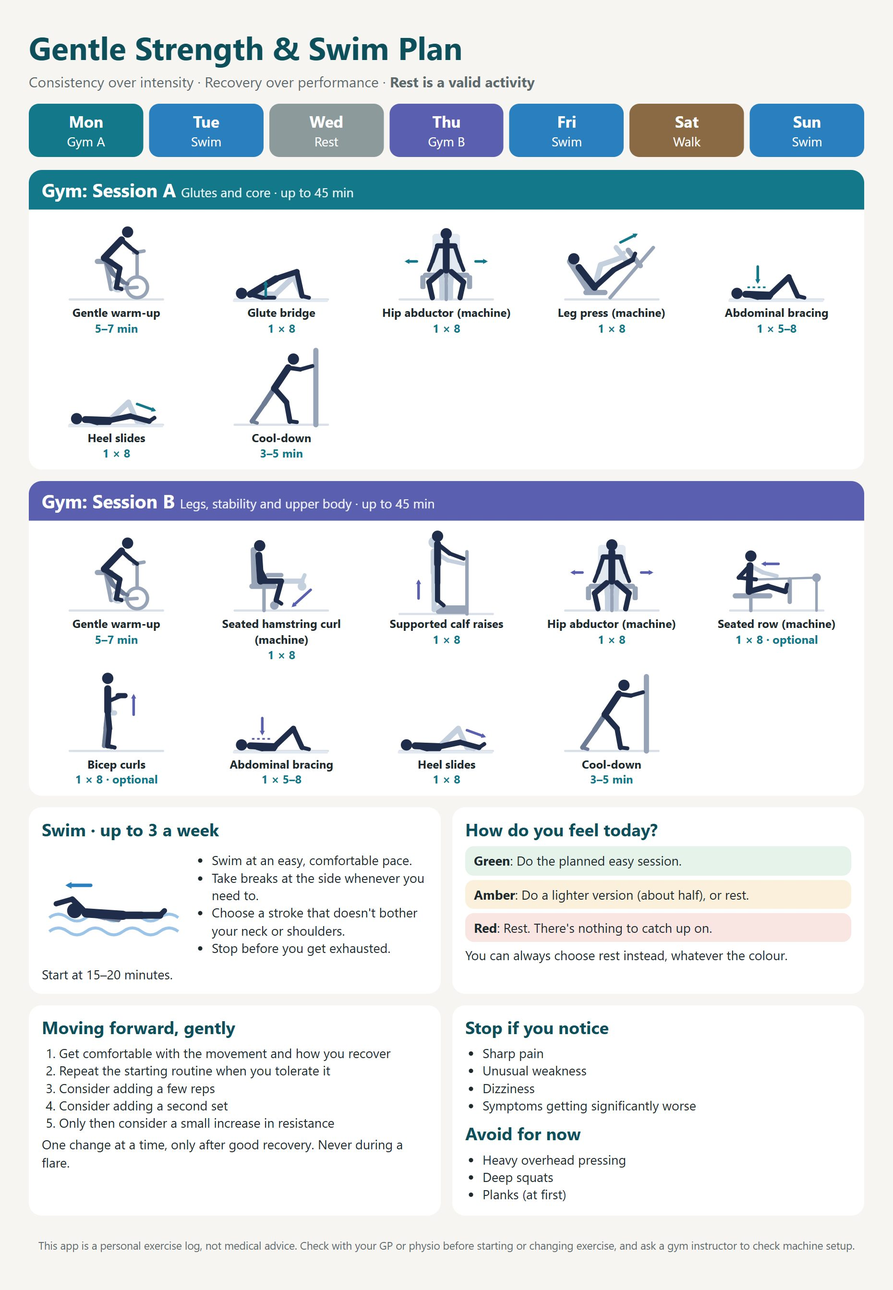
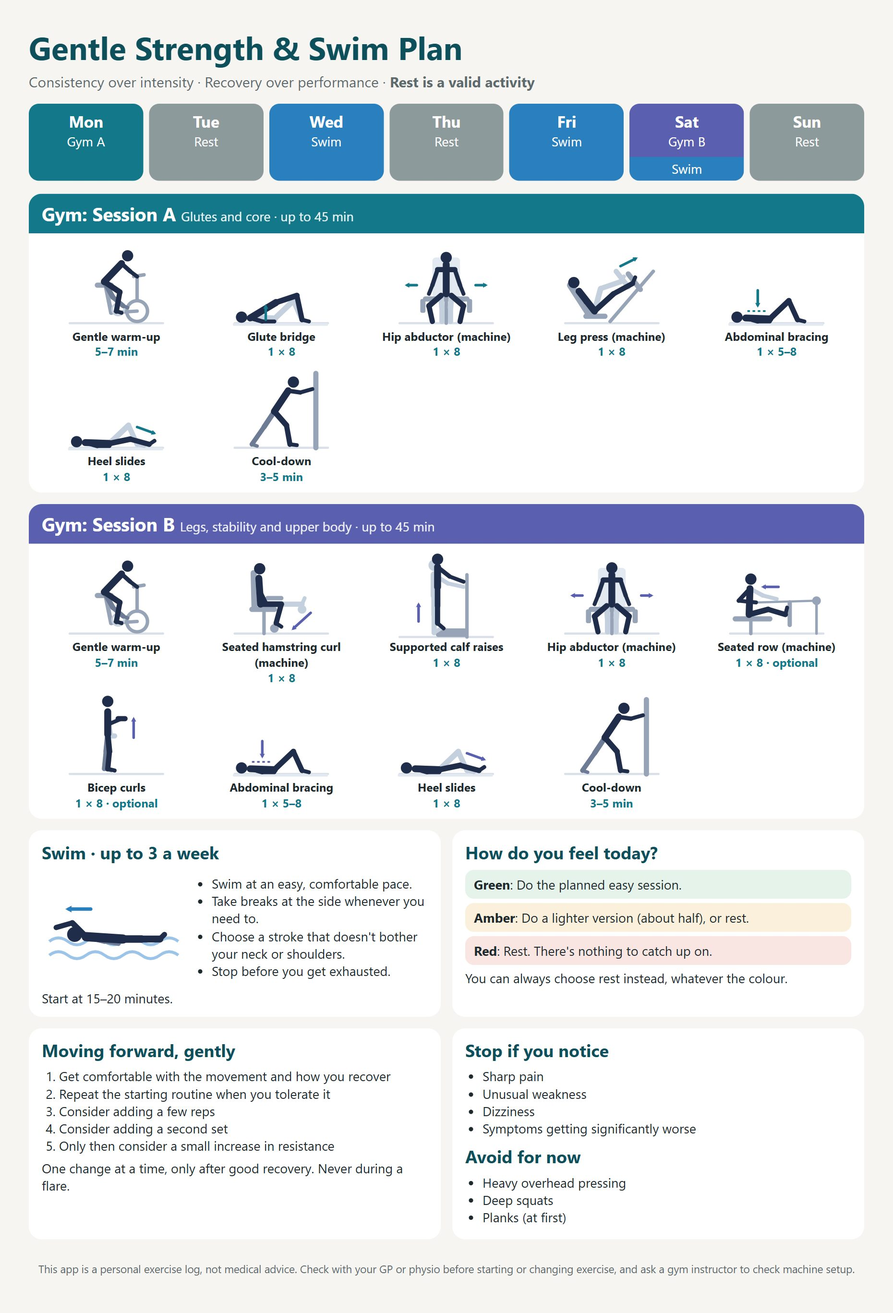
New weekly rhythm, log a session afterwards, clearer backup steps
- Week: Mon Gym A, Wed swim, Fri swim, Sat Gym B then swim; Tue, Thu, Sun rest.
  A day can now hold more than one session; the walk is no longer offered.
- "Log one I've already done": add a session for today or an earlier day
  without the before check; her usual day is the baseline for dips.
- Backup button explains Save to Files / iCloud Drive or emailing it.
- Picture guide updated; cache lgym-v4.

diff --git a/js/app.js b/js/app.js
@@ -1,17 +1,17 @@
 import * as db from "./db.js";
 import {
-  loadPlan, getPlan, position, weekDates, suggestedFor, activity, sessionItems, doseText, picto,
-  DAY_NAMES, SHORT, ICONS, colour, isoDate, parseDate, dayKeyOf,
+  loadPlan, getPlan, position, weekDates, suggestedFor, dayNote, activity, sessionItems, doseText, picto,
+  DAY_NAMES, SHORT, ICONS, colour, isoDate, parseDate, dayKeyOf, addDays,
 } from "./plan.js";
 import { renderPlan, openGuide } from "./planview.js";
 import { renderProgress, progressAction } from "./progress.js";
 import { renderHistory } from "./history.js";
 import { esc, fmt, today, toast, celebrate } from "./ui.js";
 import { unlockAudio } from "./beep.js";
-import { getDay, updateDay, suggestLevel, pendingChecks, recentCrashes, isCrash } from "./checks.js";
+import { getDay, updateDay, suggestLevel, pendingChecks, recentCrashes, isCrash, baselineOf } from "./checks.js";
 import { createSessionView, newSession, scoreChips } from "./session.js";
 import { suggestion, describe, accept, snooze, swimTarget, withLevels } from "./progression.js";
-import { createSettingsView, needsBackupReminder, backupNow, readBackup } from "./settings.js";
+import { createSettingsView, needsBackupReminder, backupNow, readBackup, BACKUP_HOW } from "./settings.js";
 
 const $screen = document.getElementById("screen");
 const $tabs = document.getElementById("tabs");
@@ -19,7 +19,7 @@ const state = { tab: "today", name: "", start: null, usual: null, flow: null, dr
 const sessionView = createSessionView({ $screen, $tabs, onExit: () => show(state.tab) });
 const settingsView = createSettingsView({ $screen, $tabs });
 const viewActive = () => sessionView.active() || settingsView.active();
-const ACTS = ["gym_a", "gym_b", "swim", "walk"];
+const ACTS = ["gym_a", "gym_b", "swim"];
 const LEVELS = ["green", "amber", "red"];
 
 const todayIso = () => isoDate(today());
@@ -96,11 +96,16 @@ function ring(week, weeks) {
 function dayStrip(now, doneDates) {
   const iso = isoDate(now);
   return `<div class="daystrip">${weekDates(now).map(({ key, date }) => {
-    const act = suggestedFor(key);
-    const style = act === "recovery" ? "" : `style="background:${colour(act)}"`;
+    const acts = suggestedFor(key).filter((a) => a !== "recovery");
     const d = isoDate(date);
-    const cls = `${act === "recovery" ? "" : "act"} ${d === iso ? "today" : ""}`;
-    return `<div class="${cls}" ${style}><b>${key[0].toUpperCase() + key.slice(1)}</b>${SHORT[act]}${doneDates.has(d) ? "<i>✓</i>" : ""}</div>`;
+    const name = `<b>${key[0].toUpperCase() + key.slice(1)}</b>`, tick = doneDates.has(d) ? "<i>✓</i>" : "";
+    const cls = `${acts.length ? "act" : ""} ${acts.length > 1 ? "split" : ""} ${d === iso ? "today" : ""}`;
+    // A day with two sessions (Saturday: Gym B, then swim) is stacked in two colours.
+    if (acts.length > 1) {
+      return `<div class="${cls}">${acts.map((a, i) => `<span style="background:${colour(a)}">${i ? "" : name}${SHORT[a]}${i === acts.length - 1 ? tick : ""}</span>`).join("")}</div>`;
+    }
+    const style = acts.length ? `style="background:${colour(acts[0])}"` : "";
+    return `<div class="${cls}" ${style}>${name}${acts.length ? SHORT[acts[0]] : SHORT.recovery}${tick}</div>`;
   }).join("")}</div>`;
 }
 
@@ -180,7 +185,7 @@ async function renderToday() {
       <p class="small">${esc(plan.safety.crashes)}</p>
       <button type="button" class="linkbtn" data-go="crash-ok" data-key="${crashKey}">Thanks, got it</button></div>` : ""}
     ${backup ? `<div class="card backup"><b>Time for a backup</b><p class="small muted">${esc(backup)} It keeps your logs safe if anything happens to this phone.</p>
-      <button type="button" class="btn" data-go="backup">Back up now</button></div>` : ""}
+      <button type="button" class="btn" data-go="backup">Back up now</button>${BACKUP_HOW}</div>` : ""}
     ${checks.map(checkCard).join("")}
     ${inProgress ? `<div class="card start-card"><b>You have a ${esc(SHORT[inProgress.act].toLowerCase())} session open</b>
       <button type="button" class="btn" data-go="open" data-id="${inProgress.id}">Carry on</button></div>` : ""}
@@ -189,6 +194,7 @@ async function renderToday() {
       <div class="row2"><button type="button" class="btn ghost" data-go="sug-no">Not now</button>
       <button type="button" class="btn" data-go="sug-yes">Yes, try it</button></div></div>` : ""}
     <button type="button" class="btn big" data-go="choose">▶ Do a workout</button>
+    <button type="button" class="btn ghost" data-go="past">✏ Log one I've already done</button>
     ${day.rest
       ? `<div class="done-banner">🛋 Resting today. ${esc(plan.meta.principles.at(-1))}. <button type="button" class="linkbtn" data-go="rest-undo">Undo</button></div>`
       : `<button type="button" class="btn ghost" data-go="rest">🛋 I'll rest today</button>`}
@@ -198,7 +204,8 @@ async function renderToday() {
     ${dayStrip(now, new Set(finished.map((s) => s.date)))}
     <p class="muted small" style="margin-top:8px">A gentle guide, not a quota. Any session can be done on any day, and rest is always a good choice.</p>
     <h2>Suggested for ${DAY_NAMES[pos.dayKey]}</h2>
-    ${await planCard(suggestedFor(pos.dayKey))}
+    ${dayNote(pos.dayKey) ? `<p class="muted small">${esc(dayNote(pos.dayKey))}</p>` : ""}
+    ${(await Promise.all(suggestedFor(pos.dayKey).map((a) => planCard(a)))).join("")}
     <h2>Eating habits <span class="muted small">(optional)</span></h2>
     <div class="card"><p class="muted small">${esc(plan.nutrition.note)}</p>
       ${plan.nutrition.habits.map((h) => {
@@ -224,12 +231,14 @@ async function renderFlow() {
         const a = activity(act);
         return `<button type="button" class="choice" data-go="pick" data-act="${act}">
           <span class="choice-head" style="background:${colour(act)}"><b>${ICONS[act]} ${esc(a.name)}</b>
-            <span>${esc(a.focus)}</span>${act === sug ? '<span class="badge sug">Suggested today</span>' : ""}
+            <span>${esc(a.focus)}</span>${sug.includes(act) ? '<span class="badge sug">Suggested today</span>' : ""}
             ${done.has(act) ? '<span class="badge sug">✓ Done today</span>' : ""}</span></button>`;
       }).join("")}
-      <button type="button" class="btn ghost" data-go="rest">🛋 Rest today instead</button>`;
+      <button type="button" class="btn ghost" data-go="rest">🛋 Rest today instead</button>
+      <button type="button" class="btn ghost" data-go="past">✏ Already done it? Log it here</button>`;
     return;
   }
+  if (f.step === "past") return renderPast(f);
   const a = activity(f.act);
   const top = (title, sub) => `<div class="wk-top" style="background:${colour(f.act)}"><button type="button" class="back" data-go="flow-back">‹ Back</button>
     <h1>${title}</h1><p>${sub}</p></div>`;
@@ -266,6 +275,26 @@ async function renderFlow() {
     ${await planCard(f.act, f.level)}
     <button type="button" class="btn big" data-go="start">▶ Start${f.level === "amber" ? " lighter session" : ""}</button>
     <button type="button" class="btn ghost" data-go="rest">🛋 Rest instead</button>`;
+}
+
+// "Log one I've already done": for a session she did without starting it in the app (today or an earlier day).
+// No "before" check: her usual day stands in for it when the 24 h and 48 h checks look for a dip.
+function renderPast(f) {
+  const pick = (go, val, on, label) => `<button type="button" class="chip ${on ? "on" : ""}" data-go="${go}" data-v="${val}" aria-pressed="${on}">${label}</button>`;
+  $screen.innerHTML = `
+    <div class="wk-top" style="background:var(--deep)"><button type="button" class="back" data-go="flow-exit">‹ Today</button>
+      <h1>Log one you've done</h1><p>Didn't start it in the app? No problem. Add it here.</p></div>
+    <div class="card">
+      <p class="q">Which session?</p>
+      ${ACTS.map((act) => `<button type="button" class="choice pickable ${f.act === act ? "on" : ""}" data-go="p-act" data-act="${act}" aria-pressed="${f.act === act}">
+        <span class="choice-head" style="background:${colour(act)}"><b>${ICONS[act]} ${esc(activity(act).name)}${f.act === act ? " ✓" : ""}</b></span></button>`).join("")}
+      <p class="q">When?</p>
+      <div class="chips pick">${pick("p-when", "today", f.when === "today", "Today")}${pick("p-when", "yesterday", f.when === "yesterday", "Yesterday")}${pick("p-when", "earlier", f.when === "earlier", "Earlier")}</div>
+      ${f.when === "earlier" ? `<input id="p-date" class="in wide" type="date" value="${f.date}" max="${todayIso()}" aria-label="Which day" style="margin-top:8px">` : ""}
+      <p class="q">Full session or a lighter one?</p>
+      <div class="chips pick">${pick("p-level", "green", f.level === "green", "Full")}${pick("p-level", "amber", f.level === "amber", "Lighter version")}</div>
+    </div>
+    <button type="button" class="btn big" data-go="p-next">Next: add the details ›</button>`;
 }
 
 // ------------------------------------------------------------------ routing
@@ -326,7 +355,7 @@ async function saveCheck(b, skipped) {
   await db.put("sessions", s);
   delete state.drafts[b.dataset.ck];
   if (!skipped) {
-    state.checkResult = isCrash(s.before, s.checks[key])
+    state.checkResult = isCrash(baselineOf(s), s.checks[key])
       ? { crash: true, text: `<b>Thanks for checking in.</b><p class="small">That's a noticeable dip compared with before the session. Go gently today. A lighter version or a rest day is a good choice next time.</p>` }
       : { crash: false, text: `<b>Thanks for checking in.</b> <span class="small">That looks like a good recovery.</span>` };
   }
@@ -334,6 +363,7 @@ async function saveCheck(b, skipped) {
 }
 
 $screen.addEventListener("input", (e) => {
+  if (e.target.id === "p-date" && state.flow?.step === "past") state.flow.date = e.target.value;
   const el = e.target.closest("[data-cknote]");
   if (el) state.drafts[el.dataset.cknote] = { ...state.drafts[el.dataset.cknote], note: el.value };
 });
@@ -397,6 +427,22 @@ $screen.addEventListener("click", async (e) => {
   }
   // the "Do a workout" flow
   if (go === "choose") { state.flow = { step: "choose" }; return renderFlow(); }
+  if (go === "past") { state.flow = { step: "past", act: null, when: "today", date: todayIso(), level: "green" }; return renderFlow(); }
+  if (go === "p-act") { f.act = b.dataset.act; return renderFlow(); }
+  if (go === "p-level") { f.level = v; return renderFlow(); }
+  if (go === "p-when") {
+    f.when = v;
+    f.date = isoDate(addDays(today(), { today: 0, yesterday: -1, earlier: -2 }[v]));
+    return renderFlow();
+  }
+  if (go === "p-next") {
+    if (!f.act) { toast("Pick which session you did"); return; }
+    if (!f.date || f.date > todayIso()) { toast("Pick a day up to today"); return; }
+    const s = await newSession({ act: f.act, date: f.date, week: weekOf(f.date), level: f.level, before: null,
+      loggedLater: true, baseline: state.usual ? { pain: state.usual.pain, energy: state.usual.energy } : null });
+    state.flow = null;
+    return sessionView.start(s, { finish: s.kind !== "gym" });
+  }
   if (go === "flow-exit") return show("today");
   if (go === "flow-back") {
     state.flow.step = f.step === "preview" ? "ready" : "choose";

diff --git a/js/session.js b/js/session.js
@@ -1,7 +1,7 @@
 // Logging a gym session, swim or walk: exercises, sets, rest timer, autosave, resume, finish with pain and energy.
 import * as db from "./db.js";
-import { getPlan, activity, doseText, colour, picto } from "./plan.js";
-import { esc, toast, celebrate, num, mmss } from "./ui.js";
+import { getPlan, activity, doseText, colour, picto, parseDate } from "./plan.js";
+import { esc, toast, celebrate, num, mmss, fmt } from "./ui.js";
 import { beep, unlockAudio } from "./beep.js";
 import { levelFor, swimTarget } from "./progression.js";
 
@@ -22,10 +22,12 @@ function newItem(it, level, lv) {
   };
 }
 
-export async function newSession({ act, date, week, level, before }) {
+// loggedLater: added afterwards, with no "before" check; baseline (her usual day) stands in for it.
+export async function newSession({ act, date, week, level, before, loggedLater = false, baseline = null }) {
   const a = activity(act);
   const s = { id: `${act}-${date}-${Date.now().toString(36)}`, kind: a.kind, act, title: a.name, date, week, level,
     before, after: { pain: null, energy: null }, checks: {}, status: "in_progress", startedAt: Date.now(), note: "" };
+  if (loggedLater) Object.assign(s, { loggedLater, baseline });
   if (a.kind === "gym") {
     s.items = [];
     for (const it of a.items) {
@@ -113,6 +115,7 @@ export function createSessionView({ $screen, $tabs, onExit }) {
 
   const bg = () => colour(S.act);
   const lighterTag = () => (S.level === "amber" ? ` · <b>lighter version</b>` : "");
+  const when = () => fmt(parseDate(S.date), { weekday: "long", day: "numeric", month: "long" });
 
   function chips(name, idx, values, selected) {
     return `<div class="chips" role="group">${values.map((v) =>
@@ -181,7 +184,7 @@ export function createSessionView({ $screen, $tabs, onExit }) {
       <div class="wk-top" style="background:${bg()}">
         <button type="button" class="back" data-act="exit">‹ Today</button>
         <h1>${esc(S.title)}</h1>
-        <p>${editing ? "Editing a finished session" : `<span id="elapsed">${elapsed()} min</span>`} · ${done} of ${total} done${lighterTag()}</p>
+        <p>${editing ? "Editing a finished session" : S.loggedLater ? `Adding ${esc(when())}` : `<span id="elapsed">${elapsed()} min</span>`} · ${done} of ${total} done${lighterTag()}</p>
       </div>
       <p class="muted small">Rest between exercises as long as you need. Skipping anything is fine.</p>
       ${stopSigns()}
@@ -208,6 +211,7 @@ export function createSessionView({ $screen, $tabs, onExit }) {
   }
 
   function startRest() {
+    if (S.loggedLater) return;  // no rest timer when adding a session afterwards
     clearInterval(restTimer);
     rest = { left: getPlan().app.rest_timer_seconds };
     restTimer = setInterval(() => {
@@ -221,7 +225,8 @@ export function createSessionView({ $screen, $tabs, onExit }) {
   function renderFinish() {
     const t = getPlan().tracking;
     const editing = S.status === "finished";
-    if (S.durationMin == null && S.kind === "gym") S.durationMin = elapsed();
+    if (S.durationMin == null && S.kind === "gym" && !S.loggedLater) S.durationMin = elapsed();
+    const later = S.loggedLater;
     const gym = S.kind === "gym";
     const summary = gym ? (() => {
       const done = S.items.filter((i) => i.status === "done").length;
@@ -230,16 +235,16 @@ export function createSessionView({ $screen, $tabs, onExit }) {
     })() : "";
     const mins = gym ? S.durationMin : S.minutes;
     $screen.innerHTML = `
-      <div class="wk-top" style="background:${bg()}"><button type="button" class="back" data-act="${gym || !editing ? "unfinish" : "exit"}">‹ Back</button>
-        <h1>${editing ? "Edit" : "Well done 💙"}</h1><p>${esc(S.title)}${lighterTag()}</p></div>
+      <div class="wk-top" style="background:${bg()}"><button type="button" class="back" data-act="${editing && !gym ? "exit" : later && !gym ? "drop" : "unfinish"}">‹ Back</button>
+        <h1>${editing ? "Edit" : "Well done 💙"}</h1><p>${esc(S.title)}${later ? ` · ${esc(when())}` : ""}${lighterTag()}</p></div>
       <div class="card">${summary}
         <label class="mini">${gym ? "How long did it take? (minutes)" : `Minutes ${S.kind === "swim" ? "in the water" : "walking"}`}
           <input class="in wide" inputmode="numeric" data-field="mins" value="${mins ?? ""}" placeholder="${esc(S.target ?? "")}"></label>
-        <p class="q">Pain now (${t.pain.min}–${t.pain.max})</p>${scoreChips("apain", t.pain, S.after.pain)}
-        <p class="q">Energy now (${t.energy.min}–${t.energy.max})</p>${scoreChips("aenergy", t.energy, S.after.energy)}
+        <p class="q">Pain ${later ? "afterwards" : "now"} (${t.pain.min}–${t.pain.max})</p>${scoreChips("apain", t.pain, S.after.pain)}
+        <p class="q">Energy ${later ? "afterwards" : "now"} (${t.energy.min}–${t.energy.max})</p>${scoreChips("aenergy", t.energy, S.after.energy)}
         ${S.before?.pain != null ? `<p class="muted small">Before: pain ${S.before.pain}, energy ${S.before.energy}.</p>` : ""}
         <label class="mini">Notes or symptoms<textarea class="in wide" data-field="snote" rows="3" placeholder="Anything to remember?">${esc(S.note ?? "")}</textarea></label>
-        <p class="muted small">I'll ask how you feel tomorrow and the day after, as delayed effects matter most.</p>
+        <p class="muted small">${later ? "I'll check in on how you're feeling over the next couple of days" : "I'll ask how you feel tomorrow and the day after"}, as delayed effects matter most.</p>
         <button type="button" class="btn" data-act="confirm">${editing ? "Save changes" : "Save"}</button>
       </div>
       ${editing && !gym ? `<button type="button" class="linkbtn danger-link" data-act="discard">Delete this entry</button>` : ""}`;
@@ -253,6 +258,7 @@ export function createSessionView({ $screen, $tabs, onExit }) {
     const item = S.items?.[i];
     switch (act) {
       case "exit": await save(); return leave();
+      case "drop": await db.remove("sessions", S.id); return leave();  // backing out of adding one afterwards
       case "toggle": open = open === i ? null : i; break;
       case "tick": {
         const st = item.sets[j];
@@ -292,6 +298,7 @@ export function createSessionView({ $screen, $tabs, onExit }) {
         }
         await save();
         if (!first) toast("Changes saved");
+        else if (S.loggedLater) celebrate("Added", "Thanks for logging it. I'll check in on how you're feeling over the next couple of days.");
         else if (S.level === "amber") celebrate("Logged", "A lighter session is still a real session. Well listened to.");
         else celebrate(S.kind === "gym" ? "Session done" : S.kind === "swim" ? "Swim logged" : "Walk logged", "Lovely. Rest up, and let me know how you feel tomorrow.");
         return leave();

diff --git a/js/planview.js b/js/planview.js
@@ -1,6 +1,6 @@
-// Plan tab: the weekly rhythm, Sessions A and B, swim and walk, how readiness and progression work,
+// Plan tab: the weekly rhythm, Sessions A and B, swimming, how readiness and progression work,
 // safety, eating habits and the 12-week review. Tapping any exercise opens its guide with a picture.
-import { getPlan, activity, sessionItems, doseText, picto, DAY_KEYS, DAY_NAMES, ICONS, colour } from "./plan.js";
+import { getPlan, activity, sessionItems, doseText, picto, suggestedFor, dayNote, DAY_KEYS, DAY_NAMES, ICONS, colour } from "./plan.js";
 import { esc } from "./ui.js";
 import { withLevels, swimTarget } from "./progression.js";
 
@@ -27,10 +27,11 @@ export async function renderPlan($screen, hasGuide) {
   const plan = getPlan();
   const swim = await swimTarget();
   const days = DAY_KEYS.map((k) => {
-    const actId = plan.schedule.days[k].activity, a = activity(actId);
-    const target = actId === "swim" ? `${swim.minutes} min` : a.max_minutes ? `up to ${a.max_minutes} min` : a.focus;
-    return `<div class="dayrow"><span class="dot" style="background:${actId === "recovery" ? "var(--line)" : colour(actId)}"></span>
-      <b>${DAY_NAMES[k]}</b><span>${ICONS[actId]} ${esc(a.name)}</span><span class="muted small">${esc(target)}</span></div>`;
+    const acts = suggestedFor(k);
+    const target = (actId) => (actId === "swim" ? `${swim.minutes} min` : activity(actId).max_minutes ? `up to ${activity(actId).max_minutes} min` : activity(actId).focus);
+    return acts.map((actId, i) => `<div class="dayrow${i < acts.length - 1 ? " joined" : ""}"><span class="dot" style="background:${actId === "recovery" ? "var(--line)" : colour(actId)}"></span>
+      <b>${i ? "" : DAY_NAMES[k]}</b><span>${i ? "then " : ""}${ICONS[actId]} ${esc(activity(actId).name)}</span><span class="muted small">${esc(target(actId))}</span></div>`).join("")
+      + (dayNote(k) ? `<p class="muted small daynote">${esc(dayNote(k))}</p>` : "");
   }).join("");
   const lv = plan.readiness.levels;
   $screen.innerHTML = `<h1>Plan</h1>
@@ -42,8 +43,6 @@ export async function renderPlan($screen, hasGuide) {
     ${await sessionBlock("gym_b")}
     <div class="session-head" style="background:${colour("swim")}"><h2>${ICONS.swim} Swimming</h2><p>Up to ${plan.schedule.targets.swims_per_week} a week · ${esc(swim.minutes)} min</p></div>
     <div class="session-body">${row({ exercise: "swim", minutes: swim.minutes }, "swim")}</div>
-    <div class="session-head" style="background:${colour("walk")}"><h2>${ICONS.walk} Woodland walk</h2><p>Gentle and optional</p></div>
-    <div class="session-body">${row({ exercise: "walk" }, "walk")}</div>
     <h2>Green, amber or red</h2>
     <div class="card small">
       ${["green", "amber", "red"].map((k) => `<div class="light ${k}"><b>${lv[k].label}</b>: ${esc(lv[k].meaning)}.<br>${esc(lv[k].action)}</div>`).join("")}

diff --git a/js/progress.js b/js/progress.js
@@ -4,7 +4,7 @@ import * as db from "./db.js";
 import { getPlan, parseDate, addDays, isoDate, position, sessionItems } from "./plan.js";
 import { esc, fmt, toast, num, today } from "./ui.js";
 import { lineChart } from "./charts.js";
-import { sessionCrashed } from "./checks.js";
+import { sessionCrashed, baselineOf } from "./checks.js";
 import { levelFor, swimTarget } from "./progression.js";
 
 const avg = (xs) => (xs.length ? Math.round((xs.reduce((a, b) => a + b, 0) / xs.length) * 10) / 10 : null);
@@ -35,7 +35,7 @@ function totals(sessions, days, now) {
   const rests = days.filter((d) => d.rest).length;
   const t = getPlan().schedule.targets;
   return `<h2>So far</h2><div class="stats">${tile(count("gym"), "gym sessions")}${tile(count("swim"), "swims")}
-      ${tile(count("walk"), "walks")}${tile(rests, "rest days chosen")}</div>
+      ${count("walk") ? tile(count("walk"), "walks") : ""}${tile(rests, "rest days chosen")}</div>
     <p class="muted small">This week: ${count("gym", wk)} gym (up to ${t.gym_per_week}) and ${count("swim", wk)} swim${count("swim", wk) === 1 ? "" : "s"} (up to ${t.swims_per_week}). The targets are gentle guides, not quotas.</p>`;
 }
 
@@ -43,7 +43,7 @@ async function swimSection(sessions) {
   const swims = sessions.filter((s) => s.kind === "swim" && s.minutes != null);
   const target = await swimTarget();
   const recent = [...swims].sort((a, b) => (a.date < b.date ? 1 : -1)).slice(0, 3);
-  const comfy = swims.filter((s) => !sessionCrashed(s) && (s.after?.energy ?? 0) >= (s.before?.energy ?? 99) - 1);
+  const comfy = swims.filter((s) => !sessionCrashed(s) && (s.after?.energy ?? 0) >= (baselineOf(s)?.energy ?? 99) - 1);
   const best = comfy.length ? Math.max(...comfy.map((s) => s.minutes)) : null;
   return `<h2>Swimming</h2><div class="card">
     <div class="g-row"><span>Your swim target now</span><b>${esc(target.minutes)} min</b></div>

diff --git a/js/settings.js b/js/settings.js
@@ -24,6 +24,12 @@ async function saveFiles(files) {
 
 const stamp = () => isoDate(new Date());
 
+// Where the backup file goes on iPhone: shown under every "Back up now" button.
+export const BACKUP_HOW = `<ol class="small muted backup-how"><li>In the panel that opens, scroll down and tap <b>Save to Files</b>.</li>
+  <li>Choose <b>iCloud Drive</b> (a folder such as "Gym backups" keeps it tidy), then tap <b>Save</b>.</li>
+  <li>Or tap <b>Mail</b> or <b>Messages</b> and send it to yourself. That works too.</li></ol>
+  <p class="small muted">You never need to open the file. To get your logs back, use <b>Restore from a backup file</b> in Settings.</p>`;
+
 export async function backupNow() {
   const data = await db.exportAll();
   const file = new File([JSON.stringify(data, null, 1)], `${APP_ID}-backup-${stamp()}.json`, { type: "application/json" });
@@ -129,7 +135,7 @@ export function createSettingsView({ $screen, $tabs }) {
         <p class="small muted">Everything you log stays on this phone. Save a backup now and then, so a lost phone (or deleting the app icon) doesn't lose it.</p>
         <p><b>Last backup:</b> ${last ? fmt(new Date(last), { weekday: "short", day: "numeric", month: "short", year: "numeric" }) : "never"}</p>
         <button type="button" class="btn" data-sact="backup">Back up now</button>
-        <p class="muted small" style="margin-top:6px">On iPhone choose <b>Save to Files</b>, then iCloud Drive, to keep a safe copy.</p>
+        ${BACKUP_HOW}
         <button type="button" class="btn ghost" data-sact="csv">Export for spreadsheets (CSV)</button>
         <label class="btn ghost filebtn">Restore from a backup file<input type="file" accept="application/json,.json" data-sact="file" hidden></label>
         ${restorePreview}

diff --git a/css/app.css b/css/app.css
@@ -43,6 +43,9 @@ p { margin: 0 0 8px; }
 .daystrip div b { display: block; font-size: 13px; color: var(--ink); }
 .daystrip .act { color: #fff; } .daystrip .act b { color: #fff; }
 .daystrip .today { border-color: var(--ink); }
+.daystrip .split { padding: 0; display: flex; flex-direction: column; overflow: hidden; }
+.daystrip .split span { display: block; padding: 6px 0 4px; }
+.daystrip .split span + span { flex: 1; padding: 4px 0 6px; }
 
 .session-head { border-radius: 18px 18px 0 0; color: #fff; padding: 14px 16px; margin-top: 12px; }
 .session-head h2 { margin: 0; color: #fff; }
@@ -193,6 +196,14 @@ details.how.stop summary { color: var(--amber); }
 .dayrow:last-of-type { border-bottom: 0; }
 .dayrow .dot { width: 12px; height: 12px; border-radius: 50%; }
 .dayrow .muted { grid-column: 3; }
+.dayrow.joined { border-bottom: 0; padding-bottom: 0; }
+.daynote { margin: 0 0 6px 22px; }
+.backup-how { margin: 8px 0 4px; padding-left: 20px; }
+.backup-how li { margin: 2px 0; }
+.chips.pick .chip { flex: 1 1 0; padding: 0 10px; }
+.choice.pickable { margin: 8px 0; border: 3px solid transparent; }
+.choice.pickable .choice-head { min-height: 52px; }
+.choice.pickable.on { border-color: var(--ink); }
 .sheet { position: fixed; inset: 0; background: rgba(14,40,46,.5); z-index: 45; display: flex; align-items: flex-end; }
 .sheet-card { background: var(--card); width: 100%; max-height: 88vh; overflow: auto; border-radius: 20px 20px 0 0; padding: 14px 16px calc(20px + var(--safe-b)); }
 .sheet-top { display: flex; justify-content: space-between; align-items: center; gap: 8px; }

diff --git a/js/checks.js b/js/checks.js
@@ -33,7 +33,10 @@ export function isCrash(before, check) {
     || (check.energy != null && before.energy != null && before.energy - check.energy >= c.energy_down);
 }
 
-export const sessionCrashed = (s) => isCrash(s.before, s.checks?.h24) || isCrash(s.before, s.checks?.h48);
+// What a session's checks are compared with: her scores before it, or, for one logged afterwards, her usual day.
+export const baselineOf = (s) => s.before ?? s.baseline ?? null;
+
+export const sessionCrashed = (s) => isCrash(baselineOf(s), s.checks?.h24) || isCrash(baselineOf(s), s.checks?.h48);
 
 // Checks are offered for a couple of days, then quietly lapse. Nothing is ever "overdue".
 // 24 h: the day after (and the day after that). 48 h: two days after (and the day after that).

diff --git a/js/plan.js b/js/plan.js
@@ -75,7 +75,9 @@ export function weekDates(date) {
   return DAY_KEYS.map((k, i) => ({ key: k, date: addDays(mon, i) }));
 }
 
-export const suggestedFor = (dayKey) => plan.schedule.days[dayKey].activity;
+// A day's suggested sessions, in order (e.g. Saturday: Gym B, then the swim).
+export const suggestedFor = (dayKey) => plan.schedule.days[dayKey].activities ?? [plan.schedule.days[dayKey].activity];
+export const dayNote = (dayKey) => plan.schedule.days[dayKey].note ?? "";
 export const activity = (actId) => ({ id: actId, ...plan.activities[actId] });
 
 // A session's items for a readiness level. Amber keeps about half: the items marked amber, with shorter times.

diff --git a/sw.js b/sw.js
@@ -5,7 +5,7 @@
 // named "lgym-…". Another app's service worker may still delete ours; if that happens, the
 // fetch handler and the page's "recache" message rebuild it.
 const PREFIX = "lgym-";
-const VERSION = `${PREFIX}v3`;
+const VERSION = `${PREFIX}v4`;
 const FILES = [
   "./", "index.html", "manifest.webmanifest", "css/app.css",
   "js/app.js", "js/db.js", "js/plan.js", "js/ui.js", "js/beep.js", "js/checks.js",
